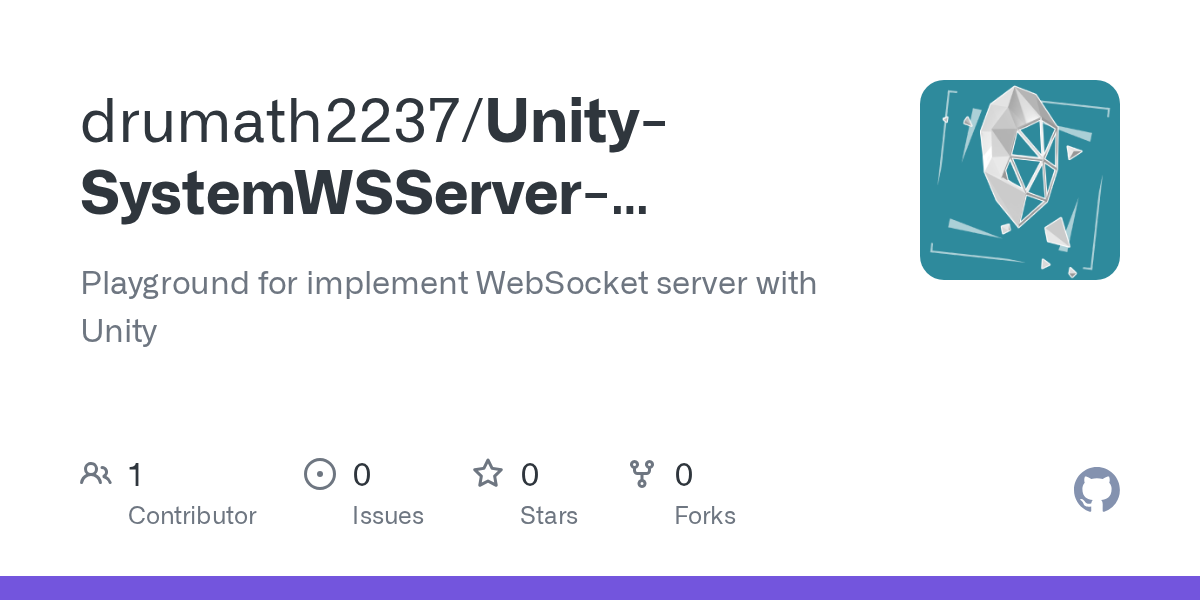
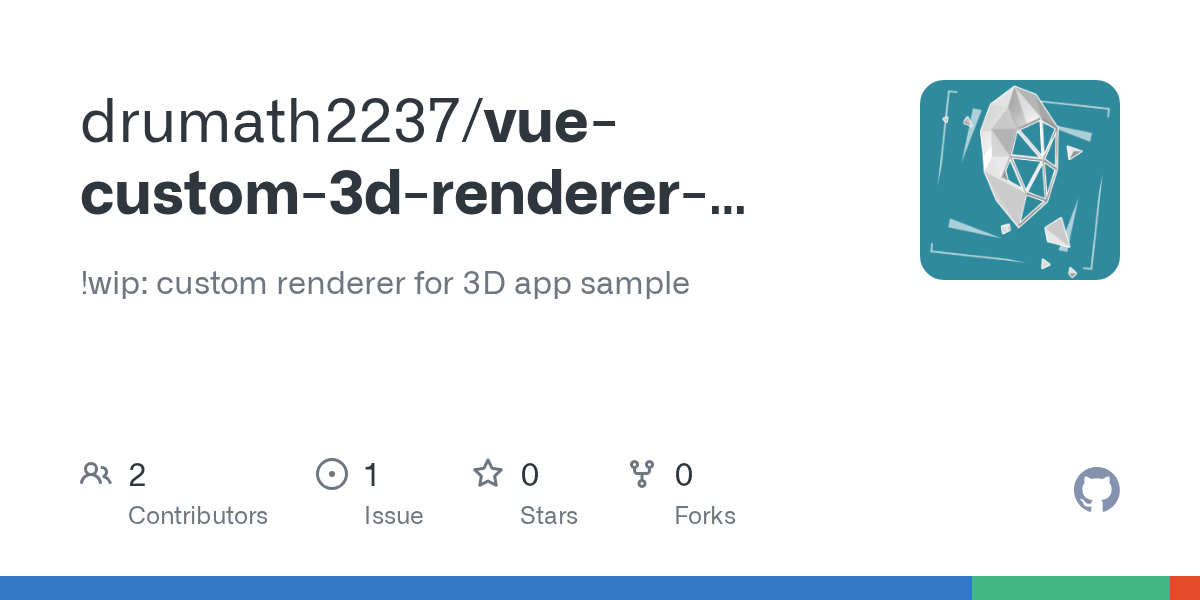
:memo: wip

diff --git a/slides.md b/slides.md
@@ -94,43 +94,67 @@ layout: section
 ## （公開予定）
 
 ---
-layout: center
+layout: two-cols-header
 hidenToc: true
 ---
 
 ## サンプルプロジェクト
 
+::left::
+
+<div class="mr-5">
+
 <br/>
 
-<img src="/images/sample.png" class="w-120" />
+<img src="/images/sample.png" class="w-100" />
 
-https://github.com/drumath2237/Unity-SystemWSServer-Playground
+https://github.com/drumath2237/vue-custom-3d-renderer-sandbox
+</div>
+
+
+::right::
+
+<div class="ml-5">
+<br/>
+
+<img src="/images/sample2.png" class="w-100"/>
+
+https://github.com/drumath2237/vue-custom-renderer-playground
+
+</div>
+
+
 
 ---
 hideInToc: true
 ---
 
-## アジェンダ
+# アジェンダ
 
 <br/>
 
 <Toc maxDepth="1"/>
 
 ---
+layout: section
 ---
 
-```ts
-import { defineShikiSetup } from '@slidev/types'
+# Custom Rendererと<br/>Web3Dライブラリについて
 
-export default defineShikiSetup(() => {
-  return {
-    themes: {
-      dark: '',
-      light: 'github-light',
-    },
-    transformers: [
-      // ...
-    ],
-  }
-})
-```
+---
+layout: section
+---
+
+# Custom Rendererによる<br/>3Dシーンの実装
+
+---
+layout: section
+---
+
+# おわりに
+
+---
+level: 2
+---
+
+# 参考文献
